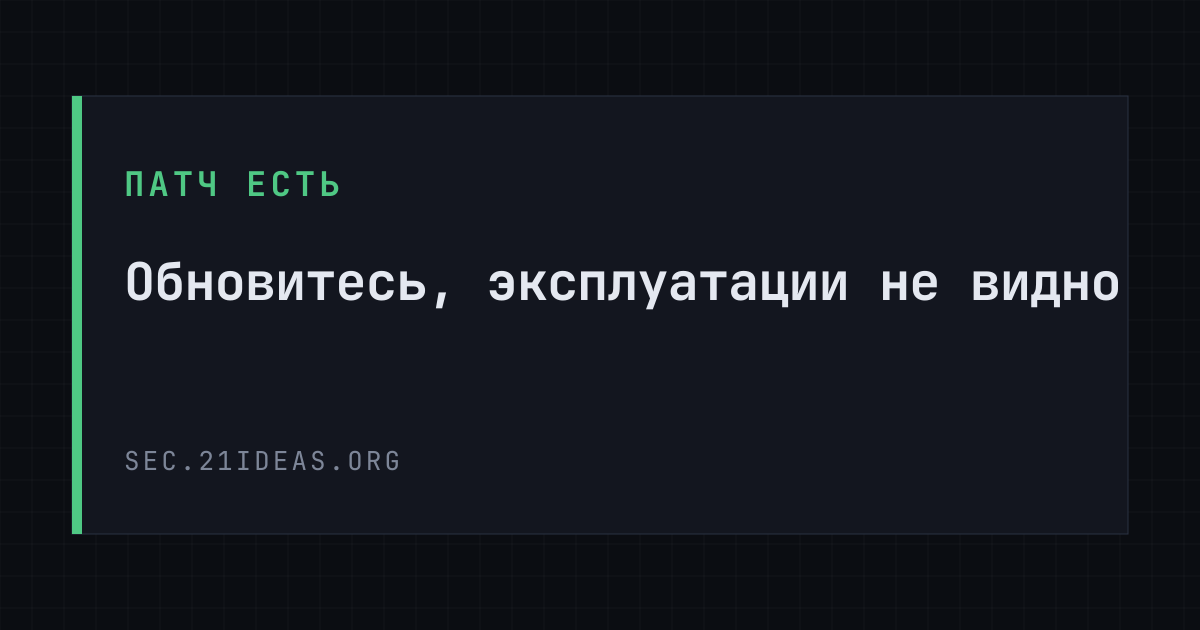
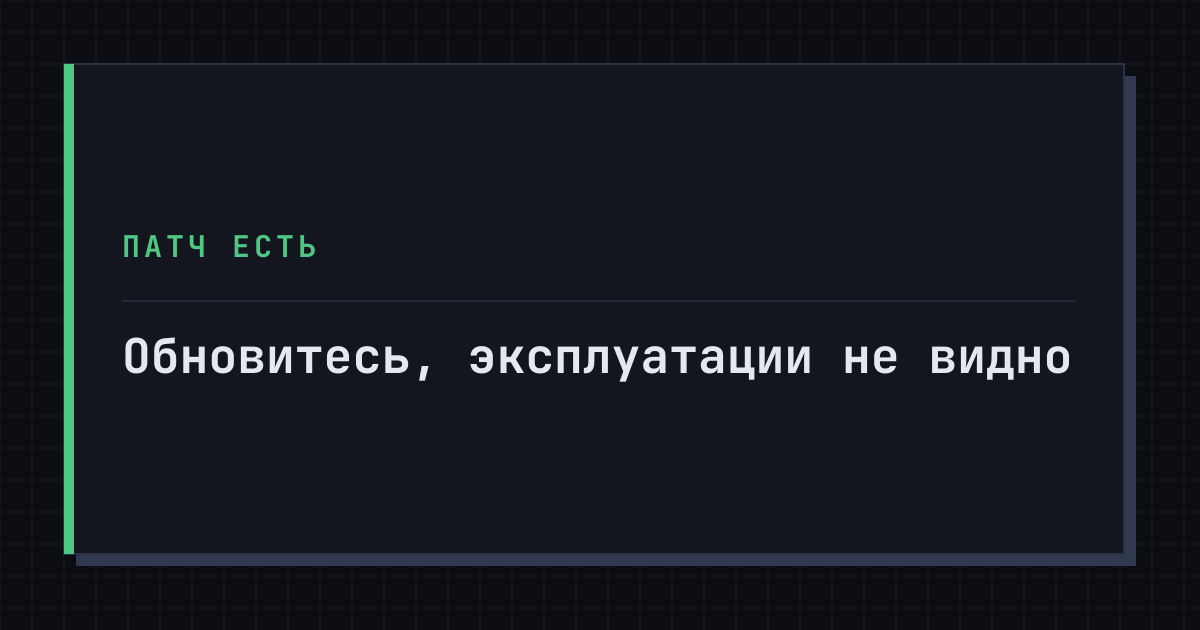
OG: текст помещается, плашка в клетке с тенью, имя сайта один раз
Кегль второй строки считается по длине, а не задан числом: фиксированные
52px на «Критические оповещения для биткоинеров» давали ~1190px в плашке
шириной 954, и хвост уезжал за край.

Домен с картинки убран: его и так печатает площадка под превью, поэтому
в кадре он был вторым. Карточка повторяет тёмную тему — клетка вокруг
плашки, жёсткая тень светлее фона, волосяная отбивка между строками.

Заголовок главной без длинного тире и без пересказа описания следом;
разделитель в заголовках подстраниц — точка, как в шапке и подвале.

Changed region(s): [[0.0308, 0.0905, 0.925, 0.8746], [0.0617, 0.1206, 0.9558, 0.9048]]

diff --git a/src/consts.ts b/src/consts.ts
@@ -1,9 +1,8 @@
 // Единственное место, где живут несекретные постоянные сайта.
 
 export const SITE_TITLE = 'sec_₿';
-export const SITE_NAME = 'Security Watch';
-export const SITE_DESCRIPTION =
-  'Критические security-оповещения для биткоинеров: уязвимости кошельков, узлов и прошивок.';
+export const SITE_NAME = 'Bitcoin Security Watcher';
+export const SITE_DESCRIPTION = 'Критические оповещения для биткоинеров';
 export const SITE_URL = 'https://sec.21ideas.org';
 
 export const TELEGRAM_URL = 'https://t.me/';
